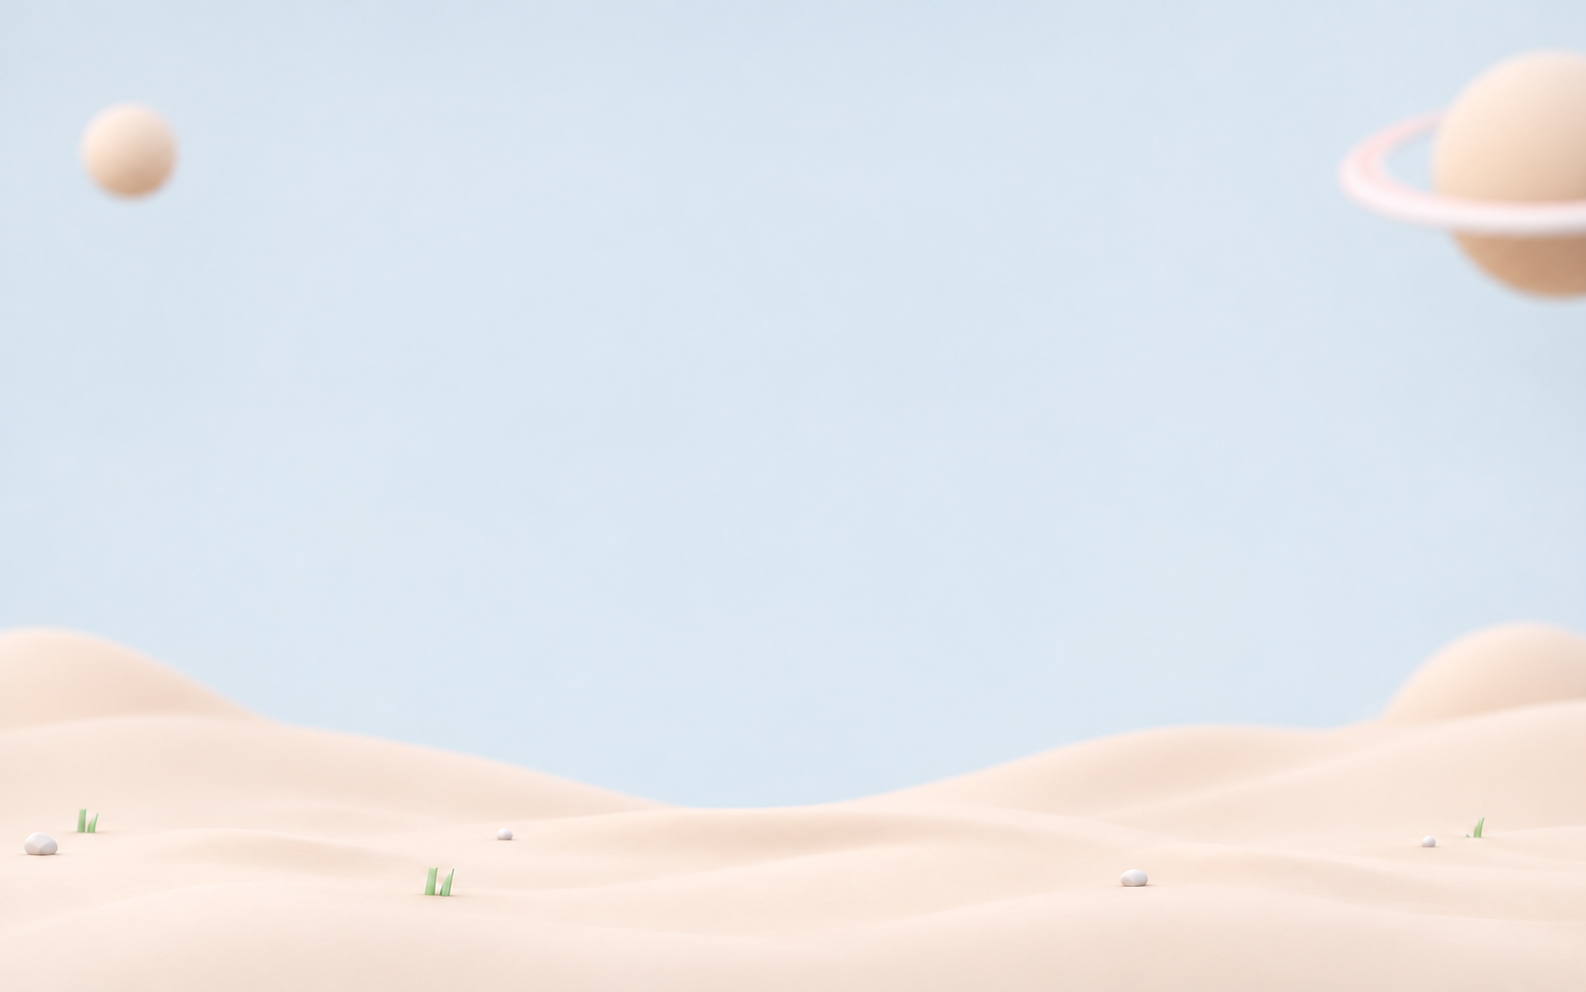
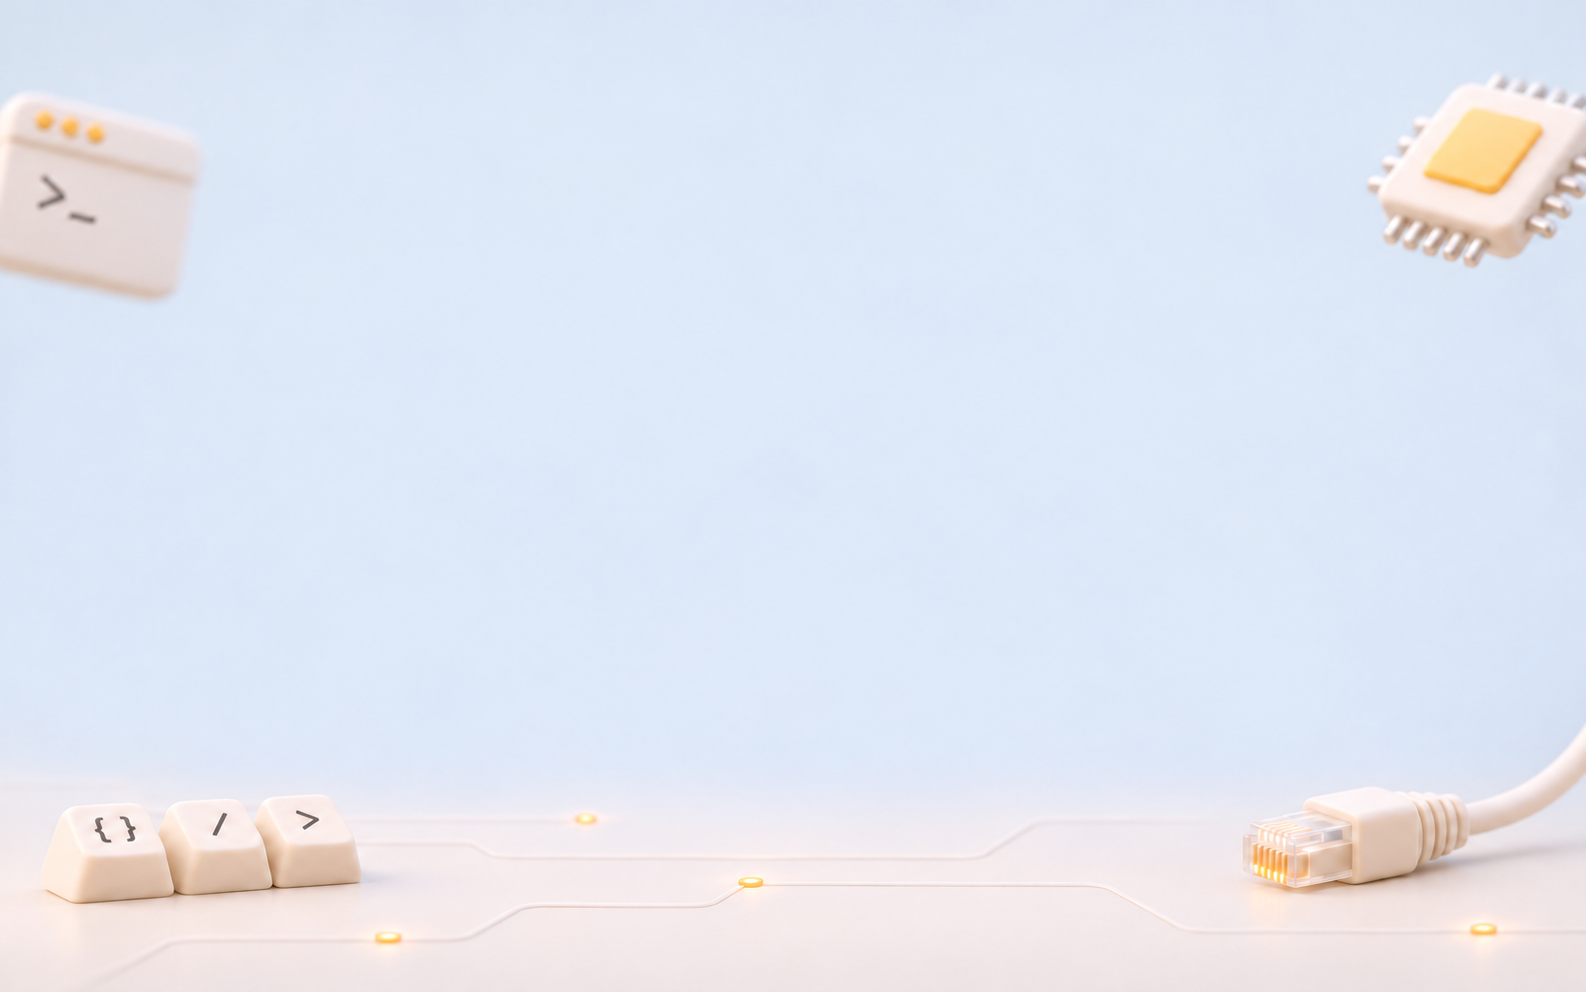
Refresh homepage artwork and bilingual copy
Add a computing-themed background and glossy 3D homepage logos while preserving pointer-following eyes, existing interactions, and original project detail logos. Update the Chinese and English hero copy and document the generated assets.

diff --git a/index.html b/index.html
@@ -4,14 +4,14 @@
   <meta charset="utf-8">
   <meta name="viewport" content="width=device-width, initial-scale=1">
   <meta name="theme-color" content="#dce7ec">
-  <meta name="description" content="gojue 是由爱好者与热心贡献者组成的非营利技术社区。探索以 eCapture 为核心的采集、分析、AI Agent 与 eBPF 项目生态。">
-  <meta property="og:title" content="gojue — 因热爱而聚，让技术被看见">
-  <meta property="og:description" content="探索 eCapture、eCaptureQ、eCapture AI Skill、eCapture Decryptor 与 ebpfmanager。由热爱驱动的非营利技术社区。">
+  <meta name="description" content="由爱好者与贡献者共建的非营利技术社区，让开源成果惠及更多人。">
+  <meta property="og:title" content="gojue — 俏也不争春，只把春来报">
+  <meta property="og:description" content="由爱好者与贡献者共建的非营利技术社区，让开源成果惠及更多人。">
   <meta property="og:type" content="website">
-  <title>gojue — 因热爱而聚，让技术被看见</title>
+  <title>gojue — 俏也不争春，只把春来报</title>
   <link rel="icon" href="assets/logos/ecapture.svg" type="image/svg+xml">
-  <link rel="preload" href="assets/landscape.png" as="image" fetchpriority="high">
-  <link rel="stylesheet" href="styles/site.css">
+  <link rel="preload" href="assets/landscape.png?v=c9397d20" as="image" fetchpriority="high">
+  <link rel="stylesheet" href="styles/site.css?v=computing-v1">
   <script type="module" src="scripts/app.js"></script>
 </head>
 <body>
@@ -41,8 +41,8 @@
     </header>
 
     <div class="hero" id="hero">
-      <h1>因热爱而聚，<span>让技术被看见。</span></h1>
-      <p>一个由爱好者与热心贡献者组成的非营利技术社区</p>
+      <h1>俏也不争春，<span>只把春来报。</span></h1>
+      <p>由爱好者与贡献者共建的非营利技术社区，让开源成果惠及更多人。</p>
     </div>
 
     <main class="constellation" id="constellation" aria-label="gojue 项目生态" aria-describedby="scene-instructions">
@@ -62,17 +62,11 @@
         <button class="project-button" type="button" data-open="ecapture" aria-label="eCapture，TLS 明文采集，查看项目详情" aria-haspopup="dialog">
           <span class="logo-anchor">
             <svg class="project-logo core-logo" id="core-logo" viewBox="0 0 1254 1254" fill="none" aria-hidden="true">
-              <path fill="#FFCC1A" d="M352 129H902C928 129 947 143 962 166L1219 558C1234 581 1234 603 1220 626L930 1086C914 1112 895 1124 867 1124H382C355 1124 338 1112 323 1088L36 624C21 601 21 580 36 557L298 164C312 142 329 129 352 129Z"/>
-              <g fill="#26282B">
-                <g id="bee-eyes"><circle cx="562" cy="377" r="41.5"/><circle cx="692" cy="377" r="41.5"/></g>
-                <path d="M212 434C289 416 424 410 490 434C548 453 595 491 627 491C659 491 706 453 764 434C830 410 965 416 1042 434C1071 443 1078 466 1069 498L1036 616C1023 675 1004 717 950 738C903 756 808 759 761 738C718 719 692 677 674 634C659 604 644 596 627 596C610 596 595 604 580 634C562 677 536 719 493 738C446 759 351 756 304 738C250 717 231 675 218 616L185 498C176 466 183 443 212 434Z"/>
-                <path d="M627 693C571 693 524 714 505 743C493 760 487 779 496 792Q499 801 509 797C549 780 587 769 627 769C667 769 705 780 745 797Q755 801 758 790C764 770 753 747 737 730C707 705 668 693 627 693Z"/>
-                <path d="M627 800C585 800 550 812 521 830C513 834 510 840 515 852L529 877Q533 887 543 882C568 872 596 866 627 866C658 866 686 872 711 882Q721 887 725 877L739 852C744 840 741 834 733 830C704 812 669 800 627 800Z"/>
-                <path d="M627 896C602 896 578 901 560 910Q552 915 558 926C570 948 594 970 614 979Q627 989 640 979C660 970 684 948 696 926Q702 915 694 910C676 901 652 896 627 896Z"/>
-              </g>
-              <g fill="#fff">
-                <path d="M274 478C309 462 370 460 417 466C472 470 526 485 550 507C571 526 573 548 569 580C564 634 543 678 509 700C480 719 439 724 397 722C346 721 309 711 287 681C258 644 246 599 240 560C234 522 241 493 274 478Z"/>
-                <path d="M980 478C945 462 884 460 837 466C782 470 728 485 704 507C683 526 681 548 685 580C690 634 711 678 745 700C774 719 815 724 857 722C908 721 945 711 967 681C996 644 1008 599 1014 560C1020 522 1013 493 980 478Z"/>
+              <image href="assets/logos/homepage-3d/ecapture-body.png" width="1254" height="1254"/>
+              <!-- Keep the glossy eyes separate so the existing pointer animation can move them. -->
+              <g id="bee-eyes">
+                <image href="assets/logos/homepage-3d/eye.png" x="514" y="329" width="96" height="96"/>
+                <image href="assets/logos/homepage-3d/eye.png" x="644" y="329" width="96" height="96"/>
               </g>
             </svg>
           </span>
@@ -81,26 +75,26 @@
       </div>
 
       <div class="project project-satellite project-skills" data-project="skills">
-        <button class="project-button" type="button" data-open="skills" aria-label="eCapture AI Skill，AI Agent 技能，查看项目详情" aria-haspopup="dialog">
-          <span class="logo-anchor"><span class="floating-logo"><img class="project-logo skills-logo" src="assets/logos/ecapture-skills.png" width="1024" height="1024" alt="" draggable="false"></span></span>
-          <span class="project-caption"><span class="project-name">eCapture AI Skill</span><span class="project-subtitle">AI Agent 技能</span></span>
+        <button class="project-button" type="button" data-open="skills" aria-label="ecapture Skill，AI Agent 技能，查看项目详情" aria-haspopup="dialog">
+          <span class="logo-anchor"><span class="floating-logo"><img class="project-logo" src="assets/logos/homepage-3d/ecapture-skills.png" width="1254" height="1254" alt="" draggable="false"></span></span>
+          <span class="project-caption"><span class="project-name">ecapture Skill</span><span class="project-subtitle">AI Agent 技能</span></span>
         </button>
       </div>
       <div class="project project-satellite project-q" data-project="q">
         <button class="project-button" type="button" data-open="q" aria-label="eCaptureQ，图形化流量分析，查看项目详情" aria-haspopup="dialog">
-          <span class="logo-anchor"><span class="floating-logo"><img class="project-logo" src="assets/logos/ecaptureq.svg" width="1600" height="1600" alt="" draggable="false"></span></span>
+          <span class="logo-anchor"><span class="floating-logo"><img class="project-logo" src="assets/logos/homepage-3d/ecaptureq.png" width="1254" height="1254" alt="" draggable="false"></span></span>
           <span class="project-caption"><span class="project-name">eCaptureQ</span><span class="project-subtitle">图形化流量分析</span></span>
         </button>
       </div>
       <div class="project project-satellite project-manager" data-project="manager">
         <button class="project-button" type="button" data-open="manager" aria-label="ebpfmanager，eBPF 底层管理，查看项目详情" aria-haspopup="dialog">
-          <span class="logo-anchor"><span class="floating-logo"><img class="project-logo" src="assets/logos/ebpfmanager.svg" width="1600" height="1600" alt="" draggable="false"></span></span>
+          <span class="logo-anchor"><span class="floating-logo"><img class="project-logo" src="assets/logos/homepage-3d/ebpfmanager.png" width="1254" height="1254" alt="" draggable="false"></span></span>
           <span class="project-caption"><span class="project-name">ebpfmanager</span><span class="project-subtitle">eBPF 底层管理</span></span>
         </button>
       </div>
       <div class="project project-satellite project-decryptor" data-project="decryptor">
         <button class="project-button" type="button" data-open="decryptor" aria-label="eCapture Decryptor，TLS 与 QUIC 解密及解析，查看项目详情" aria-haspopup="dialog">
-          <span class="logo-anchor"><span class="floating-logo"><img class="project-logo" src="assets/logos/ecapture-decryptor.png" width="1024" height="1024" alt="" draggable="false"></span></span>
+          <span class="logo-anchor"><span class="floating-logo"><img class="project-logo" src="assets/logos/homepage-3d/ecapture-decryptor.png" width="1254" height="1254" alt="" draggable="false"></span></span>
           <span class="project-caption"><span class="project-name">eCapture Decryptor</span><span class="project-subtitle">TLS / QUIC 解密与解析</span></span>
         </button>
       </div>

diff --git a/scripts/content.js b/scripts/content.js
@@ -1,7 +1,7 @@
 export const projectCatalog = {
   ecapture: { name: 'eCapture', logo: 'assets/logos/ecapture.svg', tags: ['Linux', 'Android', 'eBPF'], repo: 'ecapture', docs: 'https://ecapture.cc' },
   q: { name: 'eCaptureQ', logo: 'assets/logos/ecaptureq.svg', tags: ['Desktop', 'Web'], repo: 'ecaptureQ', docs: 'https://ecapture.cc/q/' },
-  skills: { name: 'eCapture AI Skill', logo: 'assets/logos/ecapture-skills.png', logoClass: 'skills-logo', tags: ['Agent Skill', 'Python', 'Shell'], repo: 'ecapture_skills', docs: 'https://github.com/gojue/ecapture_skills#readme' },
+  skills: { name: 'ecapture Skill', logo: 'assets/logos/ecapture-skills.png', logoClass: 'skills-logo', tags: ['Agent Skill', 'Python', 'Shell'], repo: 'ecapture_skills', docs: 'https://github.com/gojue/ecapture_skills#readme' },
   decryptor: { name: 'eCapture Decryptor', logo: 'assets/logos/ecapture-decryptor.png', tags: ['Go SDK', 'TLS / QUIC', 'pcapng'], repo: 'ecapture_decryptor', docs: 'https://github.com/gojue/ecapture_decryptor/blob/master/docs/API.md' },
   manager: { name: 'ebpfmanager', logo: 'assets/logos/ebpfmanager.svg', tags: ['Go', 'Linux', 'eBPF'], repo: 'ebpfmanager', docs: 'https://github.com/gojue/ebpfmanager#readme' },
 };
@@ -9,10 +9,10 @@ export const projectCatalog = {
 export const translations = {
   zh: {
     lang: 'zh-CN',
-    pageTitle: 'gojue — 因热爱而聚，让技术被看见',
-    description: 'gojue 是由爱好者与热心贡献者组成的非营利技术社区。探索以 eCapture 为核心的采集、分析、AI Agent 与 eBPF 项目生态。',
-    headline: ['因热爱而聚，', '让技术被看见。'],
-    subtitle: '一个由爱好者与热心贡献者组成的非营利技术社区',
+    pageTitle: 'gojue — 俏也不争春，只把春来报',
+    description: '由爱好者与贡献者共建的非营利技术社区，让开源成果惠及更多人。',
+    headline: ['俏也不争春，', '只把春来报。'],
+    subtitle: '由爱好者与贡献者共建的非营利技术社区，让开源成果惠及更多人。',
     navLabel: '网站链接与语言', aboutLabel: '关于 gojue', githubLabel: '在 GitHub 查看 gojue',
     switchLanguage: 'Switch to English / 切换到英文',
     sceneLabel: 'gojue 项目生态',
@@ -21,7 +21,7 @@ export const translations = {
     githubAction: '查看 GitHub', docsAction: '使用文档', visitOrg: '访问 gojue',
     viewDetails: '查看项目详情',
     about: {
-      tagline: '因热爱而聚，<br>让技术被看见。',
+      tagline: '俏也不争春，<br>只把春来报。',
       description: 'gojue 是一个非营利技术社区，由爱好者与热心贡献者组成。我们围绕 eBPF、安全、可观测性与 AI Agent，一起探索技术、分享知识、维护项目。',
       sections: [
         ['由热爱驱动，在周末生长。', '成员大多有全职工作，主要利用周末和业余时间维护项目。更新、迭代与问题响应可能不够及时，感谢你的理解与耐心。'],
@@ -49,7 +49,7 @@ export const translations = {
         category: 'AI Agent 技能', subtitle: 'AI Agent 技能', connection: '智能调用',
         tagline: '让 AI Agent，<br>也能用好 eCapture。',
         description: '为 AI Agent 提供 eCapture 的使用流程、命令参考与辅助脚本，帮助它检查环境、选择采集方式并理解输出。',
-        relation: [['eCapture AI Skill', '使用流程与指导'], ['eCapture', '执行采集任务']],
+        relation: [['ecapture Skill', '使用流程与指导'], ['eCapture', '执行采集任务']],
         features: ['环境检查与采集前准备', 'TLS 明文、HTTP 与密钥采集流程', '命令模板、平台约束与输出参考'],
         note: 'Skill 提供操作知识与流程；实际采集仍由目标环境中的 eCapture 完成。',
       },
@@ -73,10 +73,10 @@ export const translations = {
   },
   en: {
     lang: 'en',
-    pageTitle: 'gojue — United by passion. Bringing tech to light.',
-    description: 'gojue is a nonprofit technology community of enthusiasts and volunteer contributors. Explore the eCapture ecosystem for traffic capture, analysis, AI agents, and eBPF.',
-    headline: ['United by passion.', 'Bringing tech to light.'],
-    subtitle: 'A nonprofit technology community of enthusiasts and volunteer contributors',
+    pageTitle: 'gojue — Sweet and fair, she craves not Spring for herself alone, To be the harbinger of Spring she is content.',
+    description: 'A nonprofit tech community built by enthusiasts and contributors, bringing the benefits of open source to more people.',
+    headline: ['Sweet and fair, she craves not Spring for herself alone,', 'To be the harbinger of Spring she is content.'],
+    subtitle: 'A nonprofit tech community built by enthusiasts and contributors, bringing the benefits of open source to more people.',
     navLabel: 'Website links and language', aboutLabel: 'About gojue', githubLabel: 'View gojue on GitHub',
     switchLanguage: '切换到中文 / Switch to Chinese',
     sceneLabel: 'The gojue project ecosystem',
@@ -85,7 +85,7 @@ export const translations = {
     githubAction: 'View on GitHub', docsAction: 'Documentation', visitOrg: 'Visit gojue',
     viewDetails: 'View project details',
     about: {
-      tagline: 'United by passion.<br>Bringing tech to light.',
+      tagline: 'Sweet and fair, she craves not Spring for herself alone,<br>To be the harbinger of Spring she is content.',
       description: 'gojue is a nonprofit technology community built by enthusiasts and volunteer contributors. We explore eBPF, security, observability, and AI agents through shared knowledge and collaborative projects.',
       sections: [
         ['Built with passion, maintained on weekends.', 'Most members have full-time jobs and maintain these projects on weekends and in their spare time. Updates, improvements, and responses may take a while. Thank you for your patience and understanding.'],
@@ -113,7 +113,7 @@ export const translations = {
         category: 'AI agent skill', subtitle: 'AI agent skill', connection: 'Agent workflows',
         tagline: 'Help AI agents<br>work with eCapture.',
         description: 'Give AI agents eCapture workflows, command references, and helper scripts to check an environment, choose capture modes, and understand the results.',
-        relation: [['eCapture AI Skill', 'Guidance and workflows'], ['eCapture', 'Run capture tasks']],
+        relation: [['ecapture Skill', 'Guidance and workflows'], ['eCapture', 'Run capture tasks']],
         features: ['Check prerequisites and prepare for capture', 'Workflows for TLS plaintext, HTTP, and keys', 'Command templates, platform limits, and output guides'],
         note: 'The skill provides operational knowledge and workflows. eCapture performs the actual capture in the target environment.',
       },

diff --git a/styles/site.css b/styles/site.css
@@ -25,7 +25,7 @@ a { color: inherit; }
 .visually-hidden { position: absolute; width: 1px; height: 1px; padding: 0; margin: -1px; overflow: hidden; clip-path: inset(50%); white-space: nowrap; border: 0; }
 
 .experience { position: relative; isolation: isolate; width: 100%; height: 100svh; min-height: 680px; overflow: hidden; }
-.landscape { position: absolute; z-index: -1; inset: 0; background: #dce7ed url("../assets/landscape.png") center center / cover no-repeat; }
+.landscape { position: absolute; z-index: -1; inset: 0; background: #dce7ed url("../assets/landscape.png?v=c9397d20") center center / cover no-repeat; }
 .site-header { position: absolute; z-index: 5; top: 0; left: 0; width: 100%; height: 92px; padding: 19px 4.4%; display: flex; align-items: center; justify-content: space-between; }
 .wordmark { display: inline-flex; align-items: flex-start; gap: 5px; padding: 0; border: 0; background: none; font-size: 2.65rem; font-weight: 800; letter-spacing: -1.6px; line-height: 1; }
 .wordmark span { width: 10px; height: 10px; margin-top: 4px; background: #ffbf1b; transition: transform .3s var(--ease); }
@@ -43,7 +43,8 @@ a { color: inherit; }
 .hero h1 { margin: 0; font-size: clamp(2rem, 3.8vw, 3.75rem); font-weight: 800; line-height: 1.3; letter-spacing: -.045em; }
 .hero h1 span { white-space: nowrap; }
 .hero p { margin: 14px 0 0; font-size: clamp(1rem, 1.48vw, 1.375rem); line-height: 1.6; letter-spacing: .035em; color: #525b61; }
-:lang(en) .hero h1 { font-size: clamp(1.9rem, 3.25vw, 3.25rem); letter-spacing: -.04em; }
+:lang(en) .hero h1 { font-size: clamp(1.35rem, 2.25vw, 2.25rem); letter-spacing: -.04em; text-wrap: balance; }
+:lang(en) .hero h1 span { display: block; white-space: normal; }
 :lang(en) .hero p { font-size: clamp(.9375rem, 1.3vw, 1.1875rem); letter-spacing: 0; }
 
 .constellation { position: absolute; inset: 0 auto 0 0; width: 100%; transition: width .5s var(--ease); }

diff --git a/README.md b/README.md
@@ -1,6 +1,6 @@
 # gojue.cc
 
-gojue 官方网站。以 eCapture 为中心，展示 eCaptureQ、eCapture AI Skill、eCapture Decryptor 与 ebpfmanager 的项目关系。
+gojue 官方网站。以 eCapture 为中心，展示 eCaptureQ、eCapture Skill、eCapture Decryptor 与 ebpfmanager 的项目关系。
 
 ## 本地预览
 
@@ -17,7 +17,7 @@ npm run dev
 - 四个副项目围绕 eCapture 分布：左上 Skills、右上 Q、左下 ebpfmanager、右下 Decryptor。
 - 默认隐藏副项目名称、副标题和连线说明，连线保持暗淡。
 - 只有鼠标进入副项目 LOGO 的范围时，才激活对应连线、文字与 LOGO 浮动；离开 LOGO 即隐藏。页面空白区域不触发联动，连线两端与 LOGO 保持空隙。
-- 主 LOGO 上方两个圆点跟随鼠标，眼镜与其他图形保持原样。
+- 主页五个 LOGO 使用黄色与奶白色立体造型、亮面黑色细节，与计算机主题背景统一。主 LOGO 的两只亮面眼睛作为独立图层继续跟随鼠标。
 - 点击任一项目 LOGO（包括中心 eCapture）打开项目介绍；点击左上 gojue 品牌打开组织介绍。
 - GitHub 图标右侧的“文/A”按钮切换中文和英文，覆盖首页、连线文字、项目详情、组织介绍与辅助标签。优先使用上次手动选择的语言；没有有效记录时，按浏览器语言偏好顺序选择中文或英文，都不支持时回退英文。仅手动切换会保存选择，已打开的介绍也会即时切换语言。
 - 详情以抽屉展示，打开时仍可操作顶栏的语言切换。点击空白遮罩或关闭按钮即可关闭。
@@ -26,17 +26,18 @@ npm run dev
 
 ## 文件
 
-- `index.html`：页面结构和可独立移动眼睛的原始 eCapture SVG。
+- `index.html`：页面结构和分层 eCapture LOGO；SVG 内叠加立体底图与可独立移动的眼睛。
 - `styles/site.css`：响应式布局、场景、连接线和详情面板样式。
 - `scripts/app.js`：LOGO 悬停、语言切换、详情抽屉与眼睛运动。
 - `scripts/content.js`：中英文文案和项目元数据。
 - `scripts/geometry.js`：连线留白与视线位移。
-- `assets/`：独立场景背景、四个仓库原始 LOGO 和新设计的 ebpfmanager LOGO，来源见 `assets/SOURCES.txt`。
+- `assets/`：独立场景背景、原始项目 LOGO，以及仅供主页使用的立体版本，来源见 `assets/SOURCES.txt`。
+- `assets/logos/homepage-3d/`：五个主页 LOGO 的透明素材与独立眼睛图层，生成提示词保存在 `prompts.txt`。详情弹窗继续使用上一级目录中的原始 LOGO。
 - `assets/landscape-prompt.txt`：场景背景的生成提示词。审核概念图保留在本地 `design/`，不随网站源码提交。
 
-Skills 仓库原图包含白色外边框。页面只用官方六边形轮廓裁去外侧白底，保留图案内部与白色镜片；Q、D 使用原始透明素材。
+Skills 仓库原图包含白色外边框。详情弹窗用官方六边形轮廓裁去外侧白底，保留图案内部与白色镜片；Q、D 等详情 LOGO 保持原始素材。主页新素材具有独立透明背景，无需套用该裁切。
 
-`assets/logos/ebpfmanager.svg` 是本网站任务中新设计的家族 LOGO：沿用原始蜜蜂的两只圆点眼睛、黑色眼镜、白色镜片与条纹腹部，外围用黄色芯片形状和十二个探针接口表达 eBPF 程序、探针与资源管理。透明背景，无额外圆盘或底座；不是从上游仓库下载的现有标识。
+`assets/logos/ebpfmanager.svg` 是本网站任务中新设计的家族 LOGO：沿用原始蜜蜂的两只圆点眼睛、黑色眼镜、白色镜片与条纹腹部，外围用黄色芯片形状和十二个探针接口表达 eBPF 程序、探针与资源管理。透明背景，无额外圆盘或底座；不是从上游仓库下载的现有标识。该矢量版本保留用于详情弹窗，主页使用对应的亮面立体版本。
 
 ## 检查
 
